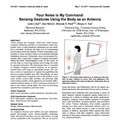
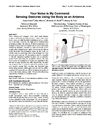
updated all publication thumbnails
thumbnails are fixed width (100px), but not fixed height [I like this]
used higher quality, but smaller size thumbnail
included scripts for generating thumbnails

diff --git a/tools/makeThumbs_pubs.py b/tools/makeThumbs_pubs.py
@@ -1,0 +1,14 @@
+#!/usr/bin/python
+
+# generates thumbnails for the publications
+
+SRC_DIR = "../../Planning/Thumbnails/Publications"
+INCLUDE_RE = r"\.jpg" # regular expression for source files to include
+DST_DIR = "../img/publications"
+GEOMETERY = '100x' # scale such that width is 100px
+QUALITY = 100
+
+import makeThumbnails
+
+print "Generating Thumbnails for Publications..."
+makeThumbnails.runREinDir(SRC_DIR, INCLUDE_RE, DST_DIR, GEOMETERY, QUALITY)
